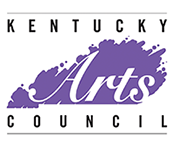
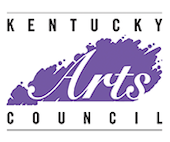
resized cherokee festival image

diff --git a/news.html b/news.html
@@ -19,7 +19,7 @@
 </head>
 
 <body>
-
+    
     <!--Navbar -->
     <nav class="navbar navbar-expand-lg navbar-dark">
         <a class="navbar-brand" href="index.html">
@@ -39,21 +39,117 @@
     </nav>
     <!--Navbar -->
 
-    <!-- Content -->
-       <div class="news-container">
-           
-       </div>
-    <!-- Content -->
+  
+    <!-- Section: Festicals -->
+    <section class="team-section text-center my-5">
 
-  <!-- SCRIPTS -->
-  <!-- JQuery -->
-  <script type="text/javascript" src="js/jquery-3.4.1.min.js"></script>
-  <!-- Bootstrap tooltips -->
-  <script type="text/javascript" src="js/popper.min.js"></script>
-  <!-- Bootstrap core JavaScript -->
-  <script type="text/javascript" src="js/bootstrap.min.js"></script>
-  <!-- MDB core JavaScript -->
-  <script type="text/javascript" src="js/mdb.min.js"></script>
+        <!-- Section heading -->
+        <h2 class="h1-responsive font-weight-bold my-5 dark-grey-text">Featured Festivals</h2>
+        <!-- Section description -->
+        <h4 class="dark-grey-text w-responsive mx-auto mb-5">Contact me for private showings and upcoming events</h4>
+      
+        <!--Grid row-->
+        <div class="row text-center">
+      
+            <!--Grid column-->
+            <div class="col-md-4 mb-md-0 mb-5">
+            <div class="testimonial">
+                <!--Image-->
+                <div class="avatar" id="festival-image">
+                <img src="./assets/images/kentucky-crafted.png" class="rounded-circle z-depth-2" id="festival-logo">
+                </div>
+                <!--Content-->
+                <h4 class="font-weight-bold dark-grey-text mt-4" id="festival-name">Kentucky Crafted Market</h4>
+            </div>      
+            </div>
+            <!--Grid column-->
+
+            <!--Grid column-->
+            <div class="col-md-4 mb-md-0 mb-5">
+                <div class="testimonial">
+                    <!--Image-->
+                    <div class="avatar" id="festival-image">
+                    <img src="./assets/images/IOH-logo.jpg" class="rounded-circle z-depth-2" id="festival-logo">
+                    </div>
+                    <!--Content-->
+                    <h4 class="font-weight-bold dark-grey-text mt-4" id="festival-name">Isle of Hope Arts and Music Festival</h4>
+                </div>      
+            </div>
+            <!--Grid column-->
+
+            <!--Grid column-->
+            <div class="col-md-4 mb-md-0 mb-5">
+                <div class="testimonial">
+                    <!--Image-->
+                    <div class="avatar" id="festival-image">
+                    <img src="./assets/images/splash-logo.png" class="rounded-circle z-depth-2" id="festival-logo">
+                    </div>
+                    <!--Content-->
+                    <h4 class="font-weight-bold dark-grey-text mt-4" id="festival-name">Splash Festival</h4>
+                </div>      
+            </div>
+            <!--Grid column-->
+            
+        </div>
+        <!--Grid row-->
+
+        <!--Grid row-->
+        <div class="row text-center">
+
+            <!--Grid column-->
+            <div class="col-md-4 mb-md-0 mb-5">
+            <div class="testimonial">
+                <!--Image-->
+                <div class="avatar" id="festival-image">
+                <img src="./assets/images/cherokee.jpeg" class="rounded-circle z-depth-2" id="festival-logo">
+                </div>
+                <!--Content-->
+                <h4 class="font-weight-bold dark-grey-text mt-4" id="festival-name">Cherokee Triangle Art Fair</h4>
+            </div>      
+            </div>
+            <!--Grid column-->
+    
+                <!--Grid column-->
+                <div class="col-md-4 mb-md-0 mb-5">
+                    <div class="testimonial">
+                        <!--Image-->
+                        <div class="avatar" id="festival-image">
+                        <img src="./assets/images/berea-logo.png" class="rounded-circle z-depth-2" id="festival-logo">
+                        </div>
+                        <!--Content-->
+                        <h4 class="font-weight-bold dark-grey-text mt-4" id="festival-name">Berea Artisan Center</h4>
+                    </div>      
+                </div>
+                <!--Grid column-->
+    
+                <!--Grid column-->
+                <div class="col-md-4 mb-md-0 mb-5">
+                    <div class="testimonial">
+                        <!--Image-->
+                        <div class="avatar" id="festival-image">
+                        <img src="./assets/images/charleston.jpg" class="rounded-circle z-depth-2" id="festival-logo">
+                        </div>
+                        <!--Content-->
+                        <h4 class="font-weight-bold dark-grey-text mt-4" id="festival-name">Piccolo Spoleto Festival</h4>
+                    </div>      
+                </div>
+                <!--Grid column-->
+                
+            </div>
+            <!--Grid row-->
+      
+      </section>
+      <!-- Section: Testimonials v.3 -->
+      
+    <!-- SCRIPTS -->
+    <!-- JQuery -->
+    <script type="text/javascript" src="js/jquery-3.4.1.min.js"></script>
+    <!-- Bootstrap tooltips -->
+    <script type="text/javascript" src="js/popper.min.js"></script>
+    <!-- Bootstrap core JavaScript -->
+    <script type="text/javascript" src="js/bootstrap.min.js"></script>
+    <!-- MDB core JavaScript -->
+    <script type="text/javascript" src="js/mdb.min.js"></script>
 </body>
 
 </html>

diff --git a/assets/styles.css b/assets/styles.css
@@ -60,9 +60,11 @@
     font-family: 'Open Sans', sans-serif;
     text-align: center;
 }
-.card-title{
-    font-family: 'Oswald', sans-serif;
+.mb-5, .my-5{
+    margin-bottom: 0 !important;
+    font-family: 'Oswald', sans-serif;    
 }
+
 .card-text{
     color: #90a4ae;
     font-size: 20px !important;
@@ -74,6 +76,16 @@
     margin-right: -15px; 
     margin-left: -15px; 
 }
-.news-container{
-    background-color: #00739a;
+#festival-image{
+    padding-top: 50px;
 }
+#festival-name{
+    font-family: 'Open Sans', sans-serif;
+}
+#festival-logo{
+    object-fit: scale-down;
+    height: 200px;
+    width: 200px;
+}
+
+

diff --git a/index.html b/index.html
@@ -20,7 +20,7 @@
 
 <body class="index-body">
     <!-- Header -->
-        <div class=header>
+        <div class="header">
             <img id="bls-logo" src="assets/images/blue-heron-logo.png" alt="Blue Heron Silks Logo">
         </div>
     <!-- Header -->
